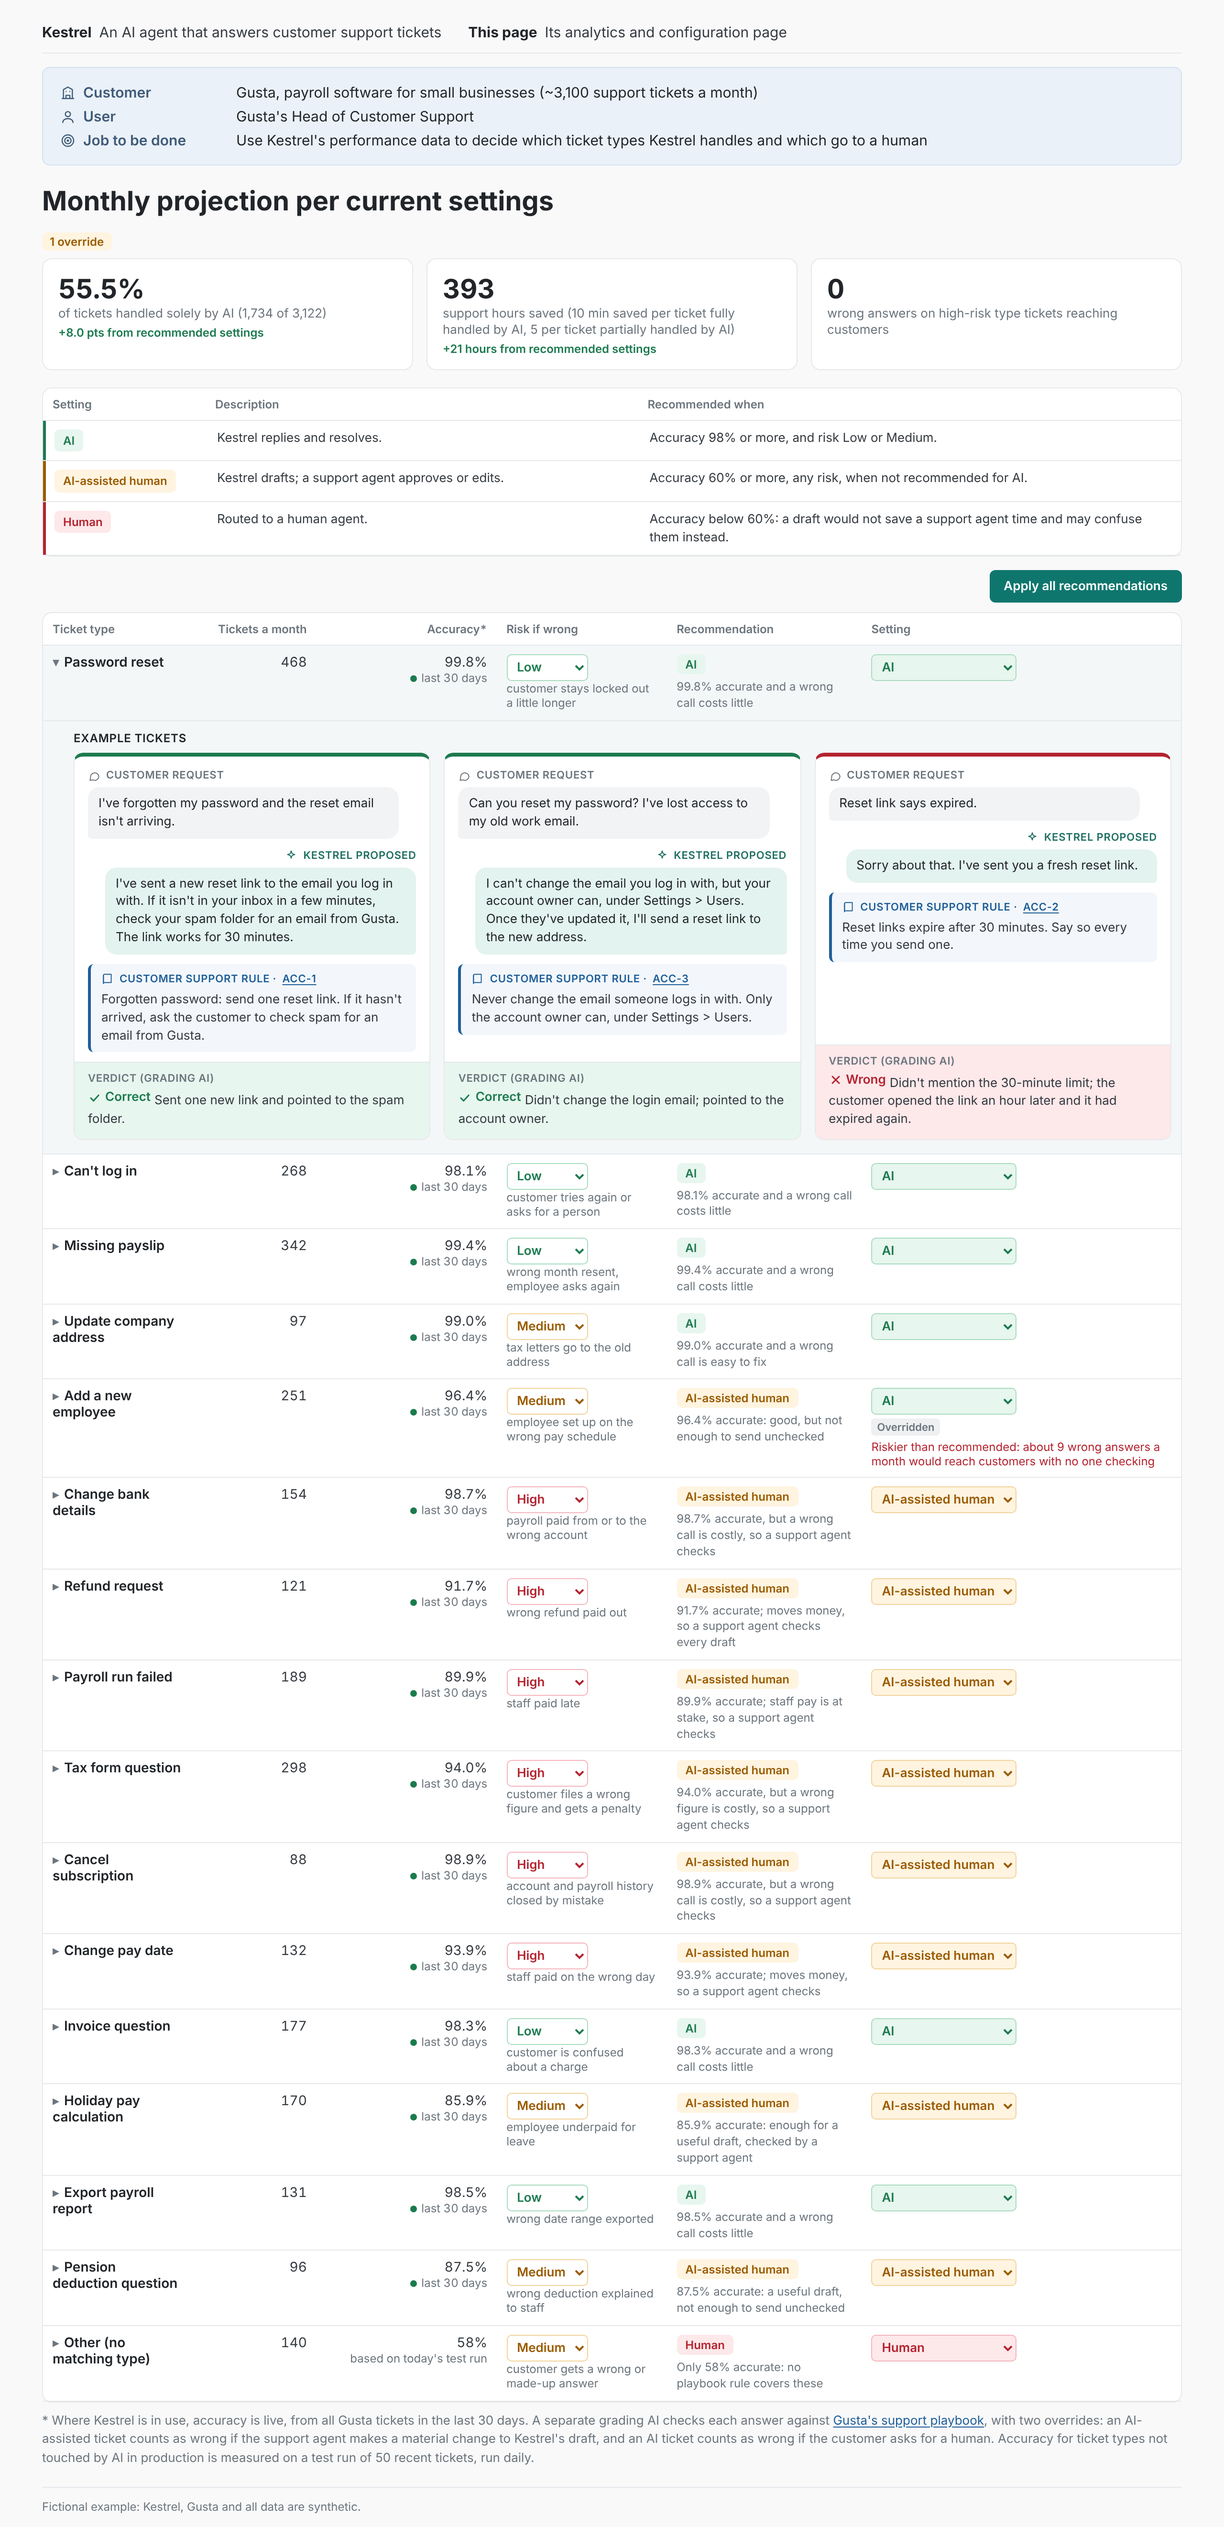
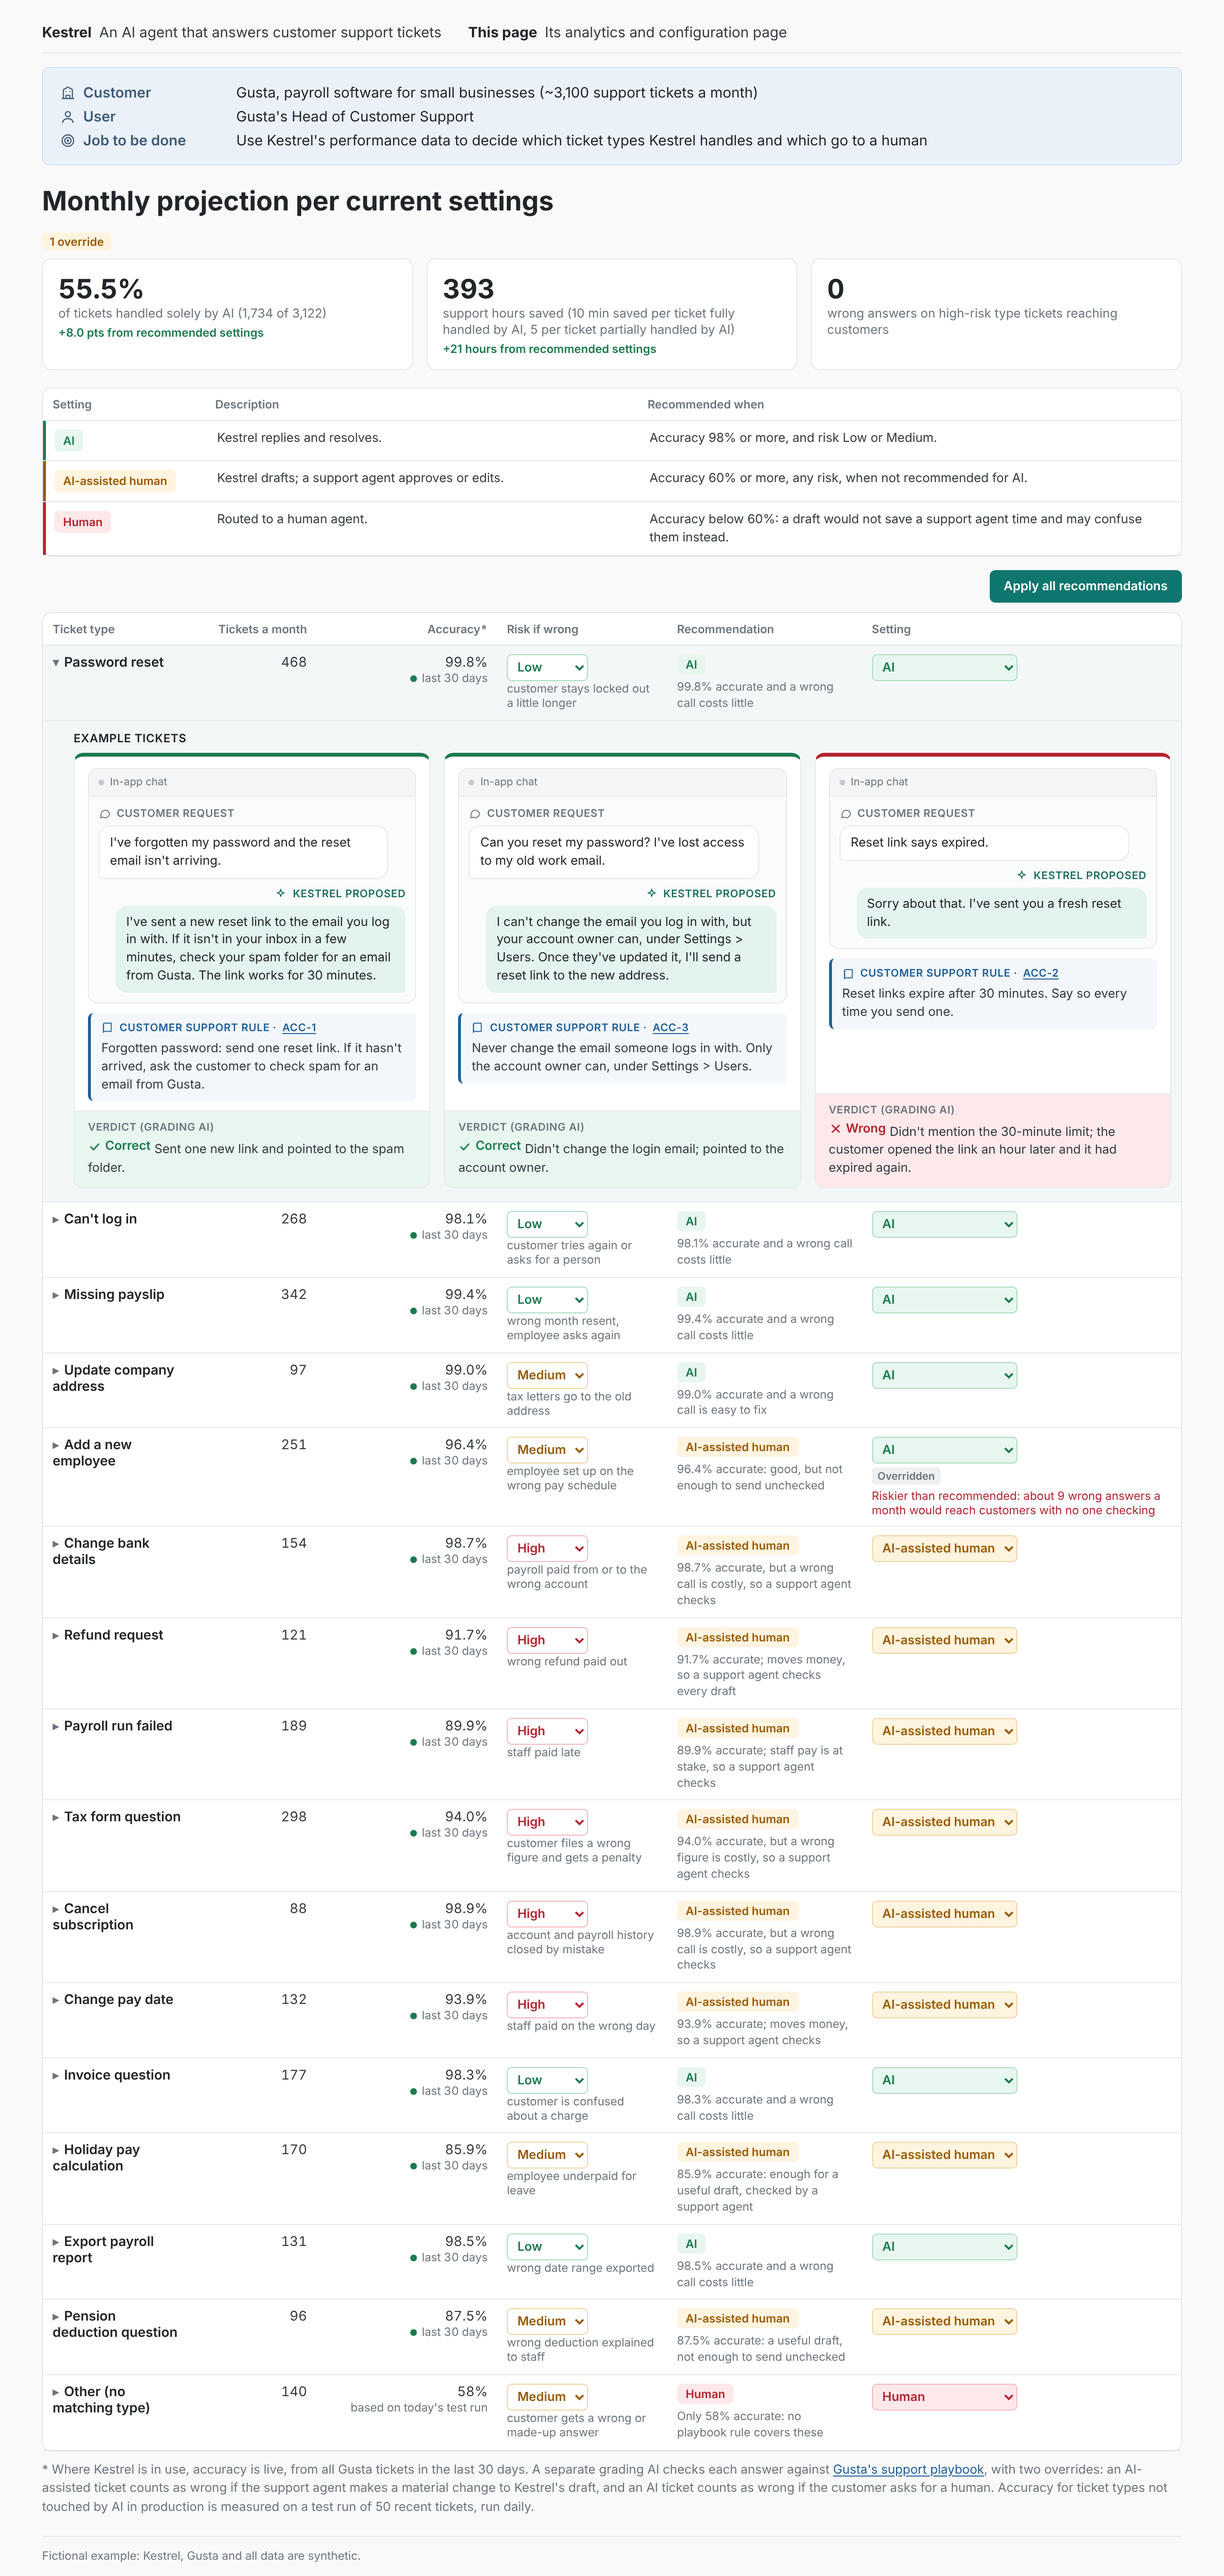
Example tickets: conversation in its own chat window, rule outside it; accuracy ticks every 5 seconds
Claude-Session: https://claude.ai/code/session_016JoguXTxkWcj5knaYbAtMZ

Changed region(s): [[0.0312, 0.0312, 0.9688, 0.968], [0.8125, 0.4372, 0.875, 0.4684], [0.6562, 0.0937, 0.6875, 0.1249]]

diff --git a/examples/kestrel/build/mvp.html b/examples/kestrel/build/mvp.html
@@ -49,7 +49,7 @@ tr.row{cursor:pointer}tr.row:hover{background:#f6f8f9}tr.row.open{background:var
 .name{font-weight:600;color:var(--head)}.chev{color:var(--mute);display:inline-block;width:12px}
 .risk{white-space:nowrap;font-weight:600}.risk-Low{color:var(--ai)}.risk-Medium{color:var(--mix)}.risk-High{color:var(--hum)}
 .sub{font-size:12px;color:var(--mute)}
-/* live accuracy: a dot blinks every second; the number itself changes every 10 seconds */
+/* live accuracy: a dot blinks every second; the number itself changes every 5 seconds */
 .live-dot{display:inline-block;width:7px;height:7px;border-radius:50%;background:var(--ai);margin-right:5px;vertical-align:0;animation:blink 1s steps(1,end) infinite}
 @keyframes blink{50%{opacity:.15}}body.static .live-dot{animation:none}@media (prefers-reduced-motion:reduce){.live-dot{animation:none}}
 .reason{font-size:12px;color:var(--mute);line-height:1.4;margin-top:5px;max-width:240px}
@@ -68,8 +68,12 @@ tr.detail td{background:var(--open);padding:2px 10px 14px 32px}
 .exbody{padding:12px 14px 10px;display:flex;flex-direction:column;gap:10px;flex:1}
 .who{display:flex;align-items:center;gap:6px;font-size:11px;font-weight:600;text-transform:uppercase;letter-spacing:.4px;color:var(--mute);margin-bottom:4px}
 .who .ic{width:13px;height:13px}
+.chat{border:1px solid var(--line);border-radius:10px;background:#fafbfb;overflow:hidden}
+.chathead{display:flex;align-items:center;gap:6px;font-size:11px;color:var(--mute);padding:6px 10px;border-bottom:1px solid var(--line);background:#f4f5f6}
+.chathead .dot{width:6px;height:6px;border-radius:50%;background:#c4c9ce}
+.chatbody{padding:10px;display:flex;flex-direction:column;gap:8px}
 .bubble{padding:8px 11px;border-radius:12px;color:var(--head)}
-.msg-in .bubble{background:#f1f3f5;border-bottom-left-radius:4px;margin-right:18px}
+.msg-in .bubble{background:#fff;border:1px solid var(--line);border-bottom-left-radius:4px;margin-right:18px}
 .msg-out .who{justify-content:flex-end;color:#1f6f63}.msg-out .bubble{background:#e3f3ef;border-bottom-right-radius:4px;margin-left:18px}
 .rulebox{background:#f3f7fb;border-left:3px solid #1f5f99;border-radius:6px;padding:8px 11px}
 .rulebox .who{color:#1f5f99}
@@ -185,8 +189,9 @@ function render(){
       <td onclick="event.stopPropagation()"><select class="s-${set}" data-i="${i}" onchange="setMode(${i}, this.value)">${['resolve', 'draft', 'human'].map(m => `<option value="${m}"${m === set ? ' selected' : ''}>${LABEL[m]}</option>`).join('')}</select>${over}${warn}</td>
 </tr>`;
     const det = isOpen ? `<tr class="detail"><td colspan="6"><div class="exhead">Example tickets</div><div class="exgrid">${t.examples.map(e => `<div class="exbox ${e.correct ? 'ex-ok' : 'ex-no'}"><div class="exbody">
+      <div class="chat"><div class="chathead"><span class="dot"></span>${D.channel}</div><div class="chatbody">
       <div class="msg-in"><span class="who">${ic('chat')}Customer request</span><div class="bubble">${e.message}</div></div>
-      <div class="msg-out"><span class="who">${ic('spark')}${K} proposed</span><div class="bubble">${e.proposed}</div></div>
+      <div class="msg-out"><span class="who">${ic('spark')}${K} proposed</span><div class="bubble">${e.proposed}</div></div></div></div>
       <div class="rulebox"><span class="who">${ic('book')}Customer support rule · <a class="rule-link" href="playbook.html#${e.rule_id}" target="_blank" rel="noopener" title="Open this rule in ${D.customer}'s support playbook">${e.rule_id}</a></span>${e.rule}</div></div>
       <div class="verdict"><span class="who">Verdict (grading AI)</span><span class="pill ${e.correct ? 'ok' : 'no'}">${ic(e.correct ? 'check' : 'cross')}${e.correct ? 'Correct' : 'Wrong'}</span>${e.verdict_reason}</div></div>`).join('')}</div></td></tr>` : '';
     return main + det; }).join('');
@@ -235,8 +240,8 @@ fetch('../data/ticket_types.json').then(r => r.json()).then(d => { D = d; risks 
   // saved settings: one override (Add a new employee moved up to AI)
   settings = eff().map(t => recommend(t, 0)); settings[D.types.findIndex(t => t.name === 'Add a new employee')] = 'resolve'; render();
   document.body.dataset.ready = '1';
-  // live accuracy: every 10 seconds from load, one ticket type updates (off with ?static=1, for checks and screenshots)
-  if (new URLSearchParams(location.search).has('static')) document.body.classList.add('static'); else setInterval(tick, 10000); })
+  // live accuracy: every 5 seconds from load, one ticket type updates (off with ?static=1, for checks and screenshots)
+  if (new URLSearchParams(location.search).has('static')) document.body.classList.add('static'); else setInterval(tick, 5000); })
   .catch(() => { document.querySelector('main').insertAdjacentHTML('afterbegin', '<p class="measure"><b>Couldn\'t load the data.</b> Open this page through a web server, not by double-clicking the file.</p>'); });
 </script>
 </body></html>

diff --git a/examples/kestrel/build/check_mvp.js b/examples/kestrel/build/check_mvp.js
@@ -36,6 +36,7 @@ const srv = http.createServer((q, r) => { const f = path.join(root, decodeURICom
   t('16 rows, Password reset expanded by default', (await p.$$('tr.row')).length === 16 && (await p.$$('tr.detail')).length === 1 && (await txt('tr.row.open')).includes('Password reset'));
   const det = await txt('tr.detail');
   t('each expanded row has an Example tickets heading', det.includes('Example tickets'));
+  t('the conversation sits in a chat window; the rule and verdict sit outside it', await p.$eval('tr.detail .exbox', b => !!b.querySelector('.chat .msg-in') && !!b.querySelector('.chat .msg-out') && !b.querySelector('.chat .rulebox') && !b.querySelector('.chat .verdict') && !!b.querySelector('.rulebox')));
   t('examples use the four labels', ['Customer request', 'Kestrel proposed', 'Customer support rule', 'Verdict (grading AI)'].every(l => det.includes(l)));
   await p.click('tr.row:has-text("Refund request") .name');
   t('clicking a row expands it, with a Wrong example', (await p.$$('tr.detail')).length === 2 && (await txt('#types')).includes('February was still due'));

diff --git a/README.md b/README.md
@@ -19,7 +19,7 @@ Kestrel's analytics and configuration page, for Gusta's Head of Customer Support
 |---|---|
 | Monthly projection per current settings | **55.5%** of tickets handled solely by AI (1,734 of 3,122) · **393** support hours saved (10 minutes per ticket fully handled by AI, 5 per ticket partially handled by AI) · **0** wrong answers on high-risk type tickets reaching customers. Recalculates as settings change; each change flashes green or red and shows the difference from the recommended settings |
 | Settings | **AI**: Kestrel replies and resolves (recommended at 98%+ accuracy and risk Low or Medium) · **AI-assisted human**: Kestrel drafts, a support agent approves or edits (60%+ at any risk, since a support agent checks every draft) · **Human**: routed to a human agent (below 60%, where a draft wouldn't save a support agent time and may confuse them instead; today only Other, the tickets that match no type) |
-| The table | 16 ticket types: tickets a month, accuracy (live where Kestrel is in use: a dot blinks every second, and every 10 seconds one ticket type updates, rows higher in the table more often, shown in green or red), risk if wrong, Kestrel's recommendation with its reason, and the setting Gusta controls |
+| The table | 16 ticket types: tickets a month, accuracy (live where Kestrel is in use: a dot blinks every second, and every 5 seconds one ticket type updates, rows higher in the table more often, shown in green or red), risk if wrong, Kestrel's recommendation with its reason, and the setting Gusta controls |
 | Adjustments | Risk and setting are both editable. Changing a risk shows "Adjusted by user" and re-runs the recommendation; changing a setting shows "Overridden" and warns when it gives Kestrel more autonomy than recommended. A confirmation appears after each change. The page opens with one override (Add a new employee moved up to AI); "Apply all recommendations" resets it |
 | Example tickets | 3 under each ticket type: customer request, Kestrel's reply, the rule it was graded against (quoted by ID from Gusta's fictional [support playbook](examples/kestrel/data/support_playbook.md)), and the grading AI's verdict |
 
